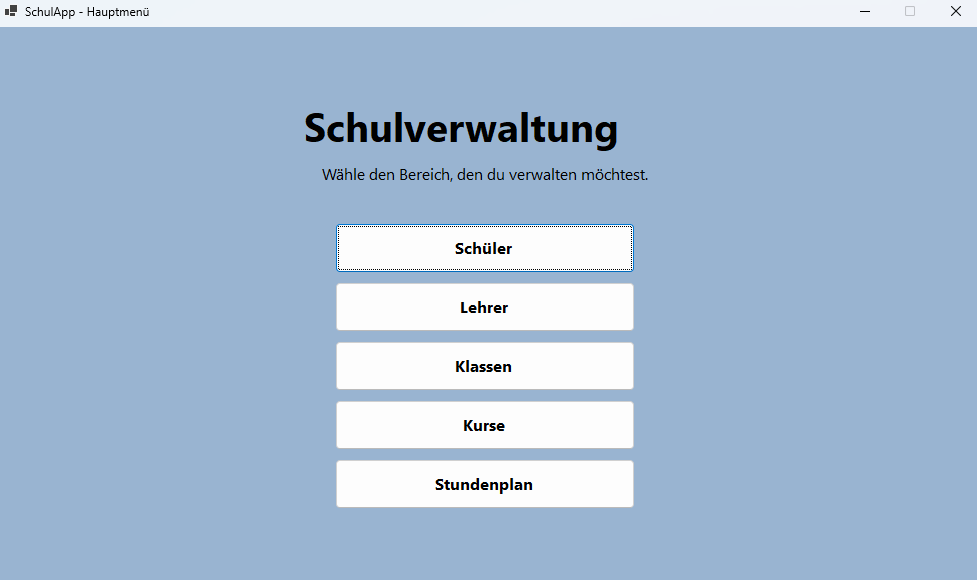
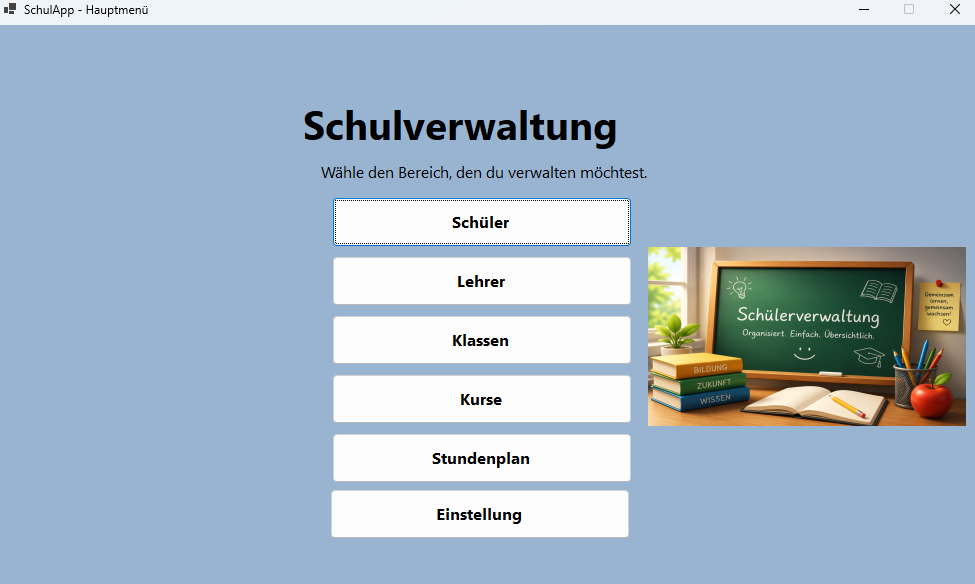
Screenshot + README Update

Changed region(s): [[0.3077, 0.1862, 1.0, 0.931], [0.0, 0.0, 1.0, 0.0621]]

diff --git a/README.md b/README.md
@@ -6,6 +6,7 @@ Die Anwendung dient dazu, wichtige Schuldaten wie Schüler, Lehrer, Klassen, Kur
 ## Inhaltsverzeichnis
 
 - [Funktionen](#funktionen)
+- [App-Demo](#app-demo)
 - [Zusätzliche Erweiterungen](#zusätzliche-erweiterungen)
 - [Verwaltete Daten](#verwaltete-daten)
   - [Schüler](#schüler)
@@ -43,6 +44,10 @@ Zu den wichtigsten Funktionen gehören:
 - Stundenplaneinträge nach Datum und Uhrzeit sortiert darstellen
 - Daten übersichtlich in Tabellen darstellen
 - Löschen von Datensätzen bestätigen
+
+## App Demo
+Im Ordner Screenshots findest du ein README das alle Seiten zeigt.
+[Screenshots](Screenshots/README.md)
 
 ## Zusätzliche Erweiterungen
 

diff --git a/Screenshots/README.md b/Screenshots/README.md
@@ -39,6 +39,11 @@ Mit der Anwendung können **Schüler, Lehrer, Klassen, Kurse und Stundenpläne**
 
 ![Stundenplaneintrag bearbeitet](MeldungStundenplaneintragBearbeitet.png)
 
+## Einstellungen
+![Einstellungenseite](EinstellungSeite.png)
+
+![Beipsiel Einstellungsseite](BeispielEinstellung.png)
+
 ## Weitere Ansichten
 
 ### Loading Screen
@@ -48,3 +53,6 @@ Mit der Anwendung können **Schüler, Lehrer, Klassen, Kurse und Stundenpläne**
 ### Löschbestätigung
 
 ![Bestätigung Löschen](BestaetigungLoeschen.png)
+
+### Farbauswahl
+![Farbe Auswählen](Farbauswahl.png)
